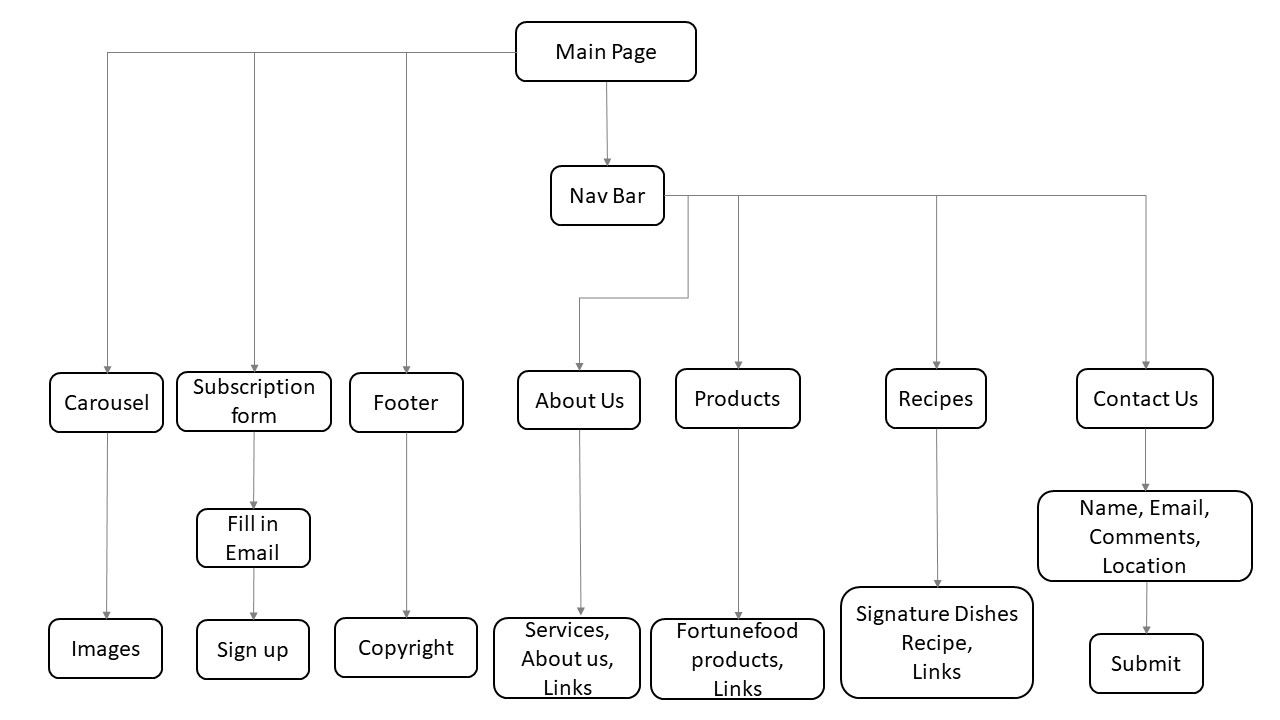
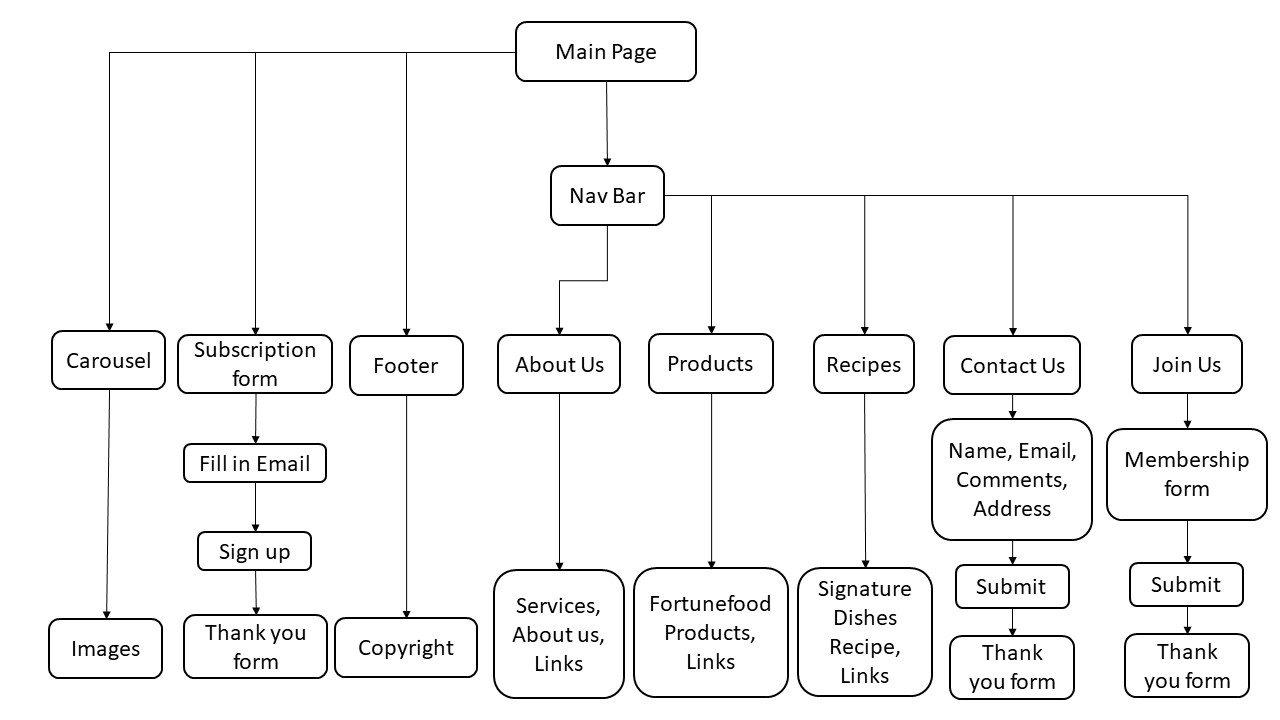
replace recipe files and readme

diff --git a/greenteatoufu.html b/greenteatoufu.html
@@ -95,12 +95,14 @@ Recipe created by Chef 丁志勇 (on Xin Flavours) </strong>
 
 </div>
   
-        <div class="col-12 col-lg-6 d-none d-lg-block d-xl-block">
-    <h1 style="font-size:1.2rem">
+     <div class="col-12 col-lg-6 d-none d-lg-block d-xl-block">
+    <h1 style="font-size:1.6rem;">
   
-<p class="mt-2" >Share <i class="fab fa-facebook"></i>
-      <i class="fab fa-instagram"></i>
-      <i class="fab fa-twitter"></i></p></h1>
+<p class="mt-2">Share <a href="https://www.facebook.com/" target="_blank"><i class="fab fa-facebook" style="color:black;"></i></a>
+  
+       <a href="https://www.instagram.com/?hl=en" target="_blank"><i class="fab fa-instagram" style="color:black;"></i></a>
+  
+      <a href="https://twitter.com/?lang=en" target="_blank"><i class="fab fa-twitter" style="color:black;"></i></a></p></h1>
 
           <a href="http://www.fortunefood.com.sg/our-recipes/141-green-tea-tofu-and-seafood-porridge.html" target="_blank"><img class="mt-2 card-img-top rounded-3" style="width:20rem;height:18rem" src="/images/Green-Tea-Tofu-and-Seafood-Porridge.png"
               alt="Card image cap"></a>

diff --git a/steamtoufuroe.html b/steamtoufuroe.html
@@ -100,12 +100,14 @@ Ingredients
 
 </div>
   
-        <div class="col-12 col-lg-6 d-none d-lg-block d-xl-block">
-    <h1 style="font-size:1.2rem">
+     <div class="col-12 col-lg-6 d-none d-lg-block d-xl-block">
+    <h1 style="font-size:1.6rem;">
   
-<p class="mt-2" >Share <i class="fab fa-facebook"></i>
-      <i class="fab fa-instagram"></i>
-      <i class="fab fa-twitter"></i></p></h1>
+<p class="mt-2">Share <a href="https://www.facebook.com/" target="_blank"><i class="fab fa-facebook" style="color:black;"></i></a>
+  
+       <a href="https://www.instagram.com/?hl=en" target="_blank"><i class="fab fa-instagram" style="color:black;"></i></a>
+  
+      <a href="https://twitter.com/?lang=en" target="_blank"><i class="fab fa-twitter" style="color:black;"></i></a></p></h1>
 
           <a href="http://www.fortunefood.com.sg/our-recipes/136-steamed-tofu-with-fish-roe-and-nyonya-sauce.html" target="_blank"><img class="mt-2 card-img-top rounded-3" style="width:20rem;height:18rem" src="/images/Steam-tofu-fish-roe-and-nyona-sauce.png"
               alt="Card image cap"></a>

diff --git a/braisedtofu.html b/braisedtofu.html
@@ -85,12 +85,14 @@ Ingredients
 </ol>
 </div>
   
-        <div class="col-12 col-lg-6 d-none d-lg-block d-xl-block">
-    <h1 style="font-size:1.2rem">
+     <div class="col-12 col-lg-6 d-none d-lg-block d-xl-block">
+    <h1 style="font-size:1.6rem;">
   
-<p class="mt-2" >Share <i class="fab fa-facebook"></i>
-      <i class="fab fa-instagram"></i>
-      <i class="fab fa-twitter"></i></p></h1>
+<p class="mt-2">Share <a href="https://www.facebook.com/" target="_blank"><i class="fab fa-facebook" style="color:black;"></i></a>
+  
+       <a href="https://www.instagram.com/?hl=en" target="_blank"><i class="fab fa-instagram" style="color:black;"></i></a>
+  
+      <a href="https://twitter.com/?lang=en" target="_blank"><i class="fab fa-twitter" style="color:black;"></i></a></p></h1>
 
           <a href="http://www.fortunefood.com.sg/our-recipes/143-braised-tofu-with-mushrooms.html" target="_blank"><img class="mt-2 card-img-top rounded-3" style="width:20rem;height:18rem" src="/images/braised-tofu-mushroom.jpg"
               alt="Card image cap"></a>

diff --git a/eighttreasure.html b/eighttreasure.html
@@ -86,12 +86,14 @@ Ingredients
 
 </div>
   
-        <div class="col-12 col-lg-6 d-none d-lg-block d-xl-block">
-    <h1 style="font-size:1.2rem">
+     <div class="col-12 col-lg-6 d-none d-lg-block d-xl-block">
+    <h1 style="font-size:1.6rem;">
   
-<p class="mt-2" >Share <i class="fab fa-facebook"></i>
-      <i class="fab fa-instagram"></i>
-      <i class="fab fa-twitter"></i></p></h1>
+<p class="mt-2">Share <a href="https://www.facebook.com/" target="_blank"><i class="fab fa-facebook" style="color:black;"></i></a>
+  
+       <a href="https://www.instagram.com/?hl=en" target="_blank"><i class="fab fa-instagram" style="color:black;"></i></a>
+  
+      <a href="https://twitter.com/?lang=en" target="_blank"><i class="fab fa-twitter" style="color:black;"></i></a></p></h1>
 
           <a href="http://www.fortunefood.com.sg/our-recipes/142-eight-treasure-rice.html" target="_blank"><img class="mt-2 card-img-top rounded-3" style="width:20rem;height:18rem" src="/images/eight-treasure-rice-edited.png"
               alt="Card image cap"></a>

diff --git a/dashitofu.html b/dashitofu.html
@@ -89,12 +89,14 @@ Ingredients
 
 </div>
   
-        <div class="col-12 col-lg-6 d-none d-lg-block d-xl-block">
-    <h1 style="font-size:1.2rem">
+     <div class="col-12 col-lg-6 d-none d-lg-block d-xl-block">
+    <h1 style="font-size:1.6rem;">
   
-<p class="mt-2" >Share <i class="fab fa-facebook"></i>
-      <i class="fab fa-instagram"></i>
-      <i class="fab fa-twitter"></i></p></h1>
+<p class="mt-2">Share <a href="https://www.facebook.com/" target="_blank"><i class="fab fa-facebook" style="color:black;"></i></a>
+  
+       <a href="https://www.instagram.com/?hl=en" target="_blank"><i class="fab fa-instagram" style="color:black;"></i></a>
+  
+      <a href="https://twitter.com/?lang=en" target="_blank"><i class="fab fa-twitter" style="color:black;"></i></a></p></h1>
 
           <a href="http://www.fortunefood.com.sg/our-recipes/7-agedashi-tofu.html" target="_blank"><img class="mt-2 card-img-top rounded-3" style="width:20rem;height:18rem" src="/images/agedashi.jpg"
               alt="Card image cap"></a>

diff --git a/salmontoufu.html b/salmontoufu.html
@@ -102,11 +102,13 @@ Ingredients
 </div>
   
         <div class="col-12 col-lg-6 d-none d-lg-block d-xl-block">
-    <h1 style="font-size:1.2rem">
+    <h1 style="font-size:1.6rem;">
   
-<p class="mt-2" >Share <i class="fab fa-facebook"></i>
-      <i class="fab fa-instagram"></i>
-      <i class="fab fa-twitter"></i></p></h1>
+<p class="mt-2">Share <a href="https://www.facebook.com/" target="_blank"><i class="fab fa-facebook" style="color:black;"></i></a>
+  
+       <a href="https://www.instagram.com/?hl=en" target="_blank"><i class="fab fa-instagram" style="color:black;"></i></a>
+  
+      <a href="https://twitter.com/?lang=en" target="_blank"><i class="fab fa-twitter" style="color:black;"></i></a></p></h1>
 
           <a href="http://www.fortunefood.com.sg/our-recipes/148-salmon-tofu-red-rice.html" target="_blank"><img class="mt-2 card-img-top rounded-3" style="width:20rem;height:18rem" src="/images/salmon-tofu-red-rice.jpg"
               alt="Card image cap"></a>

diff --git a/recipe.html b/recipe.html
@@ -129,10 +129,10 @@
         <div class="card border-0">
           <div class="card-body" style="background-color:white;">
 
-       <a href="salmon_tofu_red_rice.html" target="_blank">
+       <a href="salmontoufu.html" target="_blank">
            <img class="card-img-top" style="width: 16rem;height:15rem" src="/images/salmon-tofu-red-rice.jpg" alt="Card image cap">
        </a>
-            <h5 class="recipename card-title text-center mt-1"><a href="salmontoufu.html"
+            <h5 class="recipename card-title text-center mt-1"><a href="http://www.fortunefood.com.sg/our-recipes/148-salmon-tofu-red-rice.html"
                 style="text-decoration: none; color:grey" target="_blank"> Salmon Tofu Red Rice</a></h5>
           </div>
         </div>

diff --git a/README.md b/README.md
@@ -16,7 +16,7 @@
 
 ## 1. Summary
 * Fortunefood webpage is not fully mobile responsive
-* Seeing weppage not working really well.It sparks my interest to do my part to revamp it's website to better serve the community 
+* It sparks my interest to recreate it's website to serve the community better 
 
 ## 2. UI/UX
 
@@ -41,6 +41,7 @@ The purpose of this mini project is to recreate a new layout of fortunefood.sg. 
   Nav bar: fortune food logo<br>
   Nav bar: contains tab -  about us, products, recipes, contact us (able to link to respective page when click)<br>
   Nav bar:   about us, products, recipes, contact us(color will change to black when mouse hover over tab)<br>
+   Nav bar: Join Us(Upon clicking it will bring users to the membership page)<br>
 
 * Carousel: 5 images - tofu, udon, noodles,all products of fortunefood, factory manufacturing picture<br>
 
@@ -55,7 +56,7 @@ The purpose of this mini project is to recreate a new layout of fortunefood.sg. 
 * Contact us form: email, names, comments, submit button <br>
   
 
-* Location: address details with map<br>
+* Address: address details with map<br>
 ![Web Structure](./images/miniproj_struct.jpg)
 
 ### 2.4 Skeleton
@@ -93,7 +94,7 @@ Footer at the bottom page with copyright and font aswesome logo.<br>
 ## 3. Features<br>
 
 ### Navigation Bar<br>
-  *  About us, Products, Recipes, Contact us(click tab to link to respective page)
+  *  About us, Products, Recipes, Contact us, Join Us(click tab to link to respective page)
 ### Subscription Form <br>
   * Users may key in their email to the email box to get food updates. 
 
@@ -135,6 +136,7 @@ Function of the  webpage allows user's to search for a variety of food and compa
 |Navigation Bar  |Products Tab                   |Link to Products section, when hover over tab color will change                     |
 |Navigation Bar  |Recipes Tab                    |Link to Recipe section, when hover over tab color will change                       |
 |Navigation Bar  |Contact Us Tab                 |Link to Contact Us section, when hover over tab color will change                   |
+|Navigation Bar  |Join Us Tab                 |Link to Membership signup section, when hover over tab color will change                   |
 |Navigation Bar  |Mobile Responsiveness          |Adjust accordingly to screen size,links in navbar will be hidden in nav dropdown button|
 |Carousel        |Images                         |Able to auto slide, change to next image                                             |
 |Carousel        |Mobile Responsiveness          |Autoslide function still works in different screen size                      |
@@ -143,24 +145,17 @@ Function of the  webpage allows user's to search for a variety of food and compa
 |Content         |Poducts                        |Able to link to the destinated webpage for information       |
 |Content         |Recipes                        |Able to link to the destinated webpage for information       |
 |Content         |Contact us                     |Forms are able to let user input info          |
-|Content         |Location                       |Able to show address under google map                                                 |
+|Content         |Address                       |Able to show address under google map                                                 |
 |Content         |Mobile Responsiveness          |Able to view in different screen size                                              |
 |Footer          |Mobile Responsiveness          |Able to view in different screen size                                         |
 
 
 ## 7. Deployment 
- Host by using Netlify.
+
  Host by using Replit.
 
 **Steps for deployment:**
-* Edits were added, commited, and pushed to GitHub via Gitpod.
-* Access https://www.netlify.com/ and log in via a Github account.
-* Next, click on "New site from Git" button
-* Select "GitHub" for continuous deployment
-* Select authorize access to GitHub should a pop-up appear
-* Select the repository that you want to deploy
-* Click on "Deploy site" button to get a link for the deployed site
-
+* Run index.html
 
 
 ## 8. Live link
